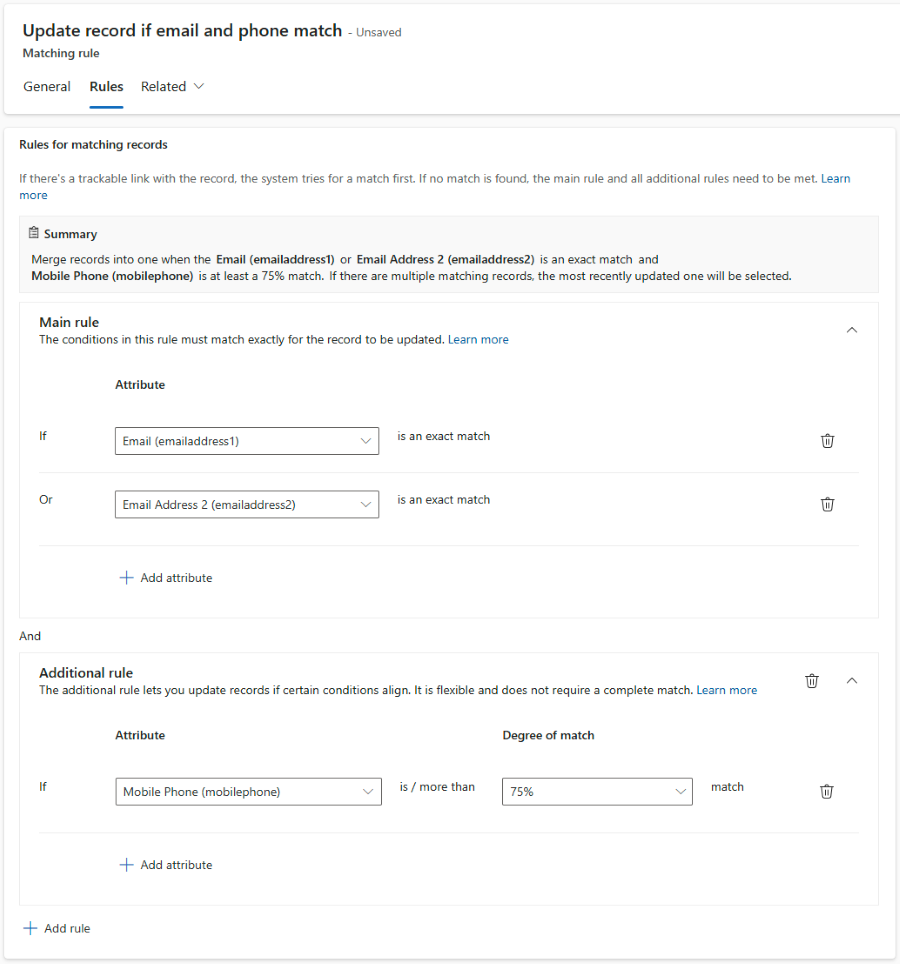
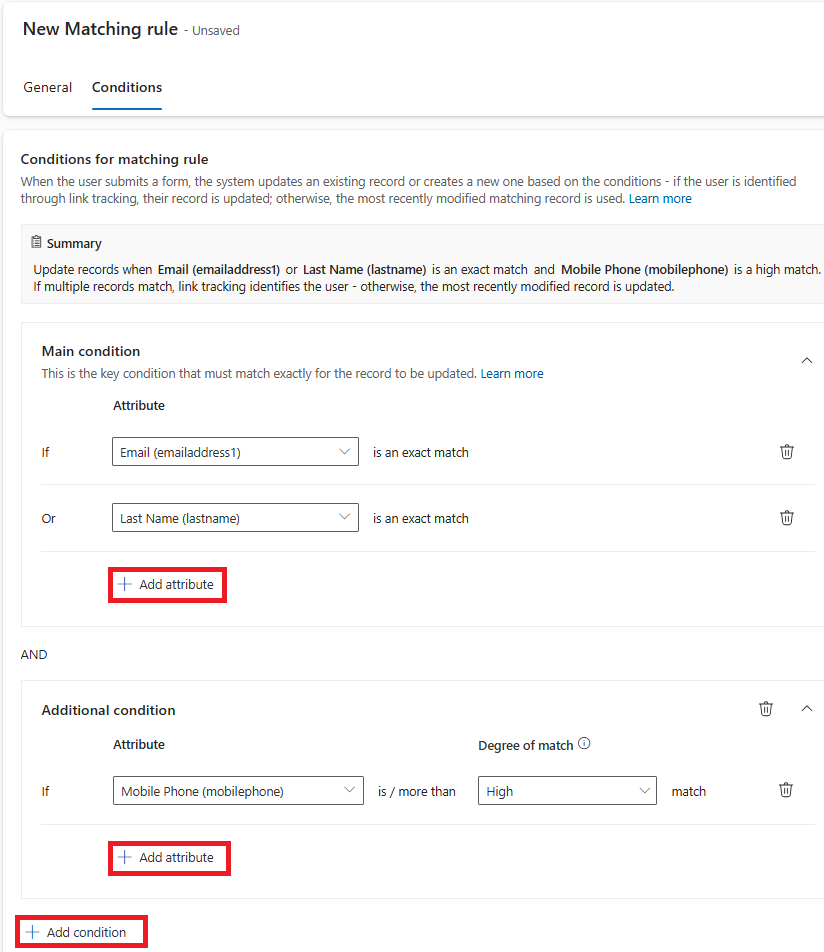
New matching rules

diff --git a/ci-docs/journeys/real-time-marketing-matching-rules.md b/ci-docs/journeys/real-time-marketing-matching-rules.md
@@ -1,7 +1,7 @@
 ---
 title: Matching rules for Customer Insights - Journeys
 description: Create custom matching rules to avoid creating duplicate records in forms and journeys.
-ms.date: 03/26/2025
+ms.date: 08/25/2025
 ms.topic: how-to
 author: petrjantac
 ms.author: colinbirkett
@@ -26,16 +26,41 @@ To create a new matching rule:
 1. Go to **Settings** > **Matching rules** and select **New** in the top ribbon.
 1. Choose an intuitive name for your new rule. This name is used to select the rule when creating new forms or journeys.
 1. Select the target entity, which can be a lead or contact.
-1. Select the **Save** button. Your matching rule is created and you can now add **Matching Strategy Attributes**.
-1. Select **Add Matching Strategy Attribute**.
-1. Choose the attribute in the **Mapping** field and select **Save & Close**.
-1. To add more matching strategy attributes, repeat steps 5 and 6.
-1. **Save** your matching rule.
+1. Select the **Save** button. Your matching rule is created and you can access it in the **Rules** tab.
 
-:::image type="content" source="media/real-time-marketing-form-matching-strategy.png" alt-text="Create a new matching rule" lightbox="media/real-time-marketing-form-matching-strategy.png":::
+:::image type="content" source="media/real-time-marketing-create-matching-rule.png" alt-text="Create a new matching rule" lightbox="media/real-time-marketing-create-matching-rule.png":::
 
  > [!TIP]
  > The **Match inactive records** toggle determines if inactive records are used for matching. Matching an inactive record doesn't reactivate the record. Inactive records have the same priority for matching as active ones. It's recommended to keep this toggle Off.
+
+You can define details of your matching rule in the **Rules** tab.
+
+### Define matching rules
+
+The matching rule builder consists of three parts:
+
+- **Summary**: A human language interpretation of the logic created by your rules.
+- **Main condition**: The main condition is always executed first to gather a group of the most relevant records. The main rule is a direct query to database, so the degree of match is always *Exact* (it isn't possible to set up fuzzy matching). You can **add multiple attributes** to the main condition. There's always an **OR** operator between the attributes of the condition.
+- **Additional conditions**: Additional conditions are executed on the group of records filtered out by the main condition. You can add multiple attributes to every additional condition. There's always an **OR** operator between the attributes of the rule. You can create multiple additional conditions. All conditions are linked by an **AND** operator. You can set the **Degree of match**, which defines if an exact match (100%) is required or what extent of fuzzy match is applied.
+- You can build complex matching rules by combining multiple conditions with various attributes.
+
+:::image type="content" source="media/real-time-marketing-define-matching-rule.png" alt-text="Define your matching rule" lightbox="media/real-time-marketing-define-matching-rule.png":::
+
+#### Example 1: Update existing record if email AND phone do match
+
+Use emailaddress1 as the attribute in the main condition. Create additional condition with mobilephone attribute.
+
+:::image type="content" source="media/real-time-marketing-define-matching-rule-example1.png" alt-text="Matching rule with email address and phone number" lightbox="media/real-time-marketing-define-matching-rule-example1.png":::
+
+**Result:** The existing lead or contact record is updated if both email address AND phone number match the values stored in the record.
+
+#### Example 2: Update existing record if email OR phone do match
+
+Use emailaddress1 as the attribute in the main condition. Add mobilephone as an additional attribute to the same condition.
+
+:::image type="content" source="media/real-time-marketing-define-matching-rule-example2.png" alt-text="Matching rule with email address or phone number" lightbox="media/real-time-marketing-define-matching-rule-example2.png":::
+
+**Result:** The existing lead or contact record is updated if email address OR phone number match the values stored in the record.
 
 > [!IMPORTANT]
 > If there's no existing record found by the matching rule, a new record is created. If there are multiple existing records found by the matching rule, the *latest updated* record is used.
